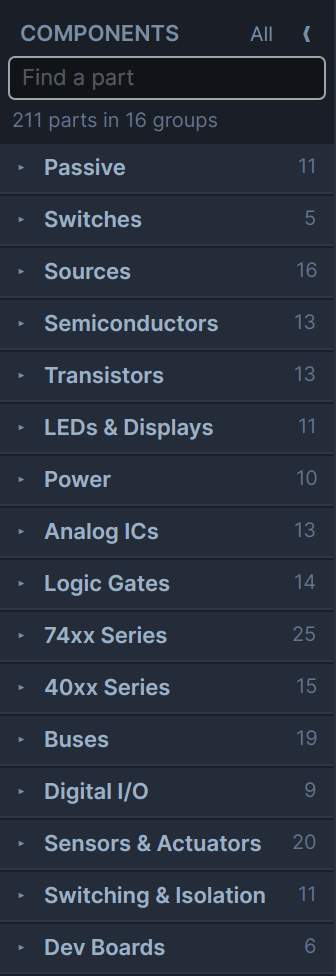
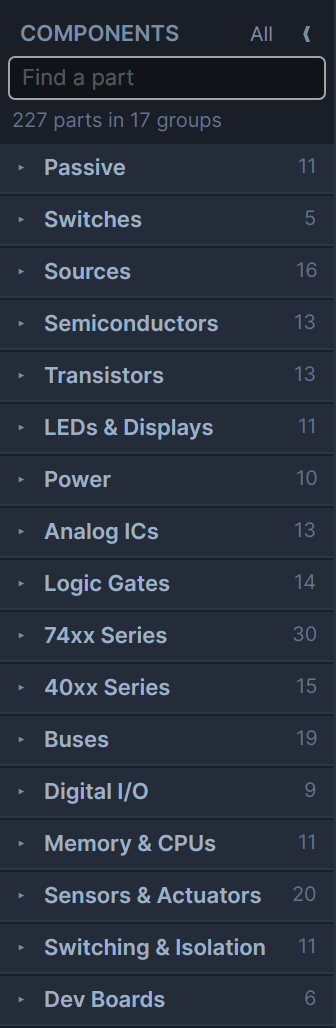
Document the 6502 computer, the memories and the bus glue for 0.42.0
The guide's new 6502 section (the model, the measured speed, the memory
map, both programs, single-stepping, limits), the LCD's reading, the
agent tools, counts for 227 parts in 17 groups and 100 examples, a
retaken palette picture and a picture of the 6502 bus decode (drawn by
Cirq.Shots), AGENTS.md notes on images, the core and its testing, and
the changelog.

diff --git a/tools/Cirq.Shots/Program.cs b/tools/Cirq.Shots/Program.cs
@@ -18,7 +18,7 @@ using Cirq.UI.Services;
 using Cirq.UI.ViewModels;
 using Cirq.UI.Views;
 
-// Draws the guide's palette picture (02-palette.png) and its screenshots of the AI Chat: the real editor, in a headless window rendered by Skia, with Claude's
+// Draws the guide's palette picture (02-palette.png), the 6502 bus decode (48-bus-decode-6502.png) and its screenshots of the AI Chat: the real editor, in a headless window rendered by Skia, with Claude's
 // side of the conversation replayed from a script. The tool calls are real (they run through the app's own MCP
 // server against the window's circuit) and so are the numbers Claude quotes at the end: they are read from the
 // results. Usage: dotnet run --project tools/Cirq.Shots -- <folder>
@@ -54,6 +54,28 @@ using (var picture = new RenderTargetBitmap(new PixelSize((int)(palette.Bounds.W
     picture.Render(palette);
     picture.Save(Path.Combine(folder, "02-palette.png"), PngBitmapEncoderOptions.Default);
     Console.WriteLine($"Wrote {Path.Combine(folder, "02-palette.png")}");
+}
+
+// ── The 6502 bus, decoded: the Ben Eater computer run for a few hundred cycles ──
+{
+    var computer = new MainWindowViewModel();
+    computer.Circuit.Clear();
+    computer.Scope.ClearProbes();
+    Examples.All.Single(e => e.Name == "Ben Eater 6502 Computer").Build(computer);
+    if (!computer.Simulation.Rebuild()) throw new InvalidOperationException(computer.Simulation.Status);
+    computer.Simulation.Simulator!.Run(60e-6);
+
+    var decode = new BusDecodeViewModel(computer.Circuit);
+    decode.Run();
+    var dialog = new BusDecodeWindow { DataContext = decode, Width = 880, Height = 600 };
+    dialog.Show();
+    for (var i = 0; i < 40; i++) Pump();
+    var frame = dialog.CaptureRenderedFrame() ?? throw new InvalidOperationException("Nothing was drawn.");
+    frame.Save(Path.Combine(folder, "48-bus-decode-6502.png"), PngBitmapEncoderOptions.Default);
+    Console.WriteLine($"Wrote {Path.Combine(folder, "48-bus-decode-6502.png")}");
+    dialog.Close();
+    computer.Dispose();
+    Pump();
 }
 
 var claude = new Replay();

diff --git a/src/Cirq.UI/ViewModels/Accordion.cs b/src/Cirq.UI/ViewModels/Accordion.cs
@@ -12,7 +12,7 @@ public interface IExpandableGroup : INotifyPropertyChanged
 /// <summary>
 /// Keeps at most one group in a list open at a time.
 /// <para>
-/// The palette holds sixteen groups and the example browser twelve. Opened independently they
+/// The palette holds seventeen groups and the example browser fifteen. Opened independently they
 /// stack up: four open groups is more than a sidebar's height, so finding the fifth means
 /// scrolling past the four you already finished with. Closing the last one as the next opens keeps
 /// every heading on screen, which is what makes a long list browsable rather than a thing to
@@ -21,7 +21,7 @@ public interface IExpandableGroup : INotifyPropertyChanged
 /// <para>
 /// Bulk changes — an expand-all button, or a search opening everything it matched — go through
 /// <see cref="SetAll"/> and are exempt. Those are not somebody opening a group, and collapsing
-/// fifteen of the sixteen a button just opened would be an odd way to answer the button.
+/// sixteen of the seventeen a button just opened would be an odd way to answer the button.
 /// </para>
 /// </summary>
 public sealed class Accordion

diff --git a/tests/Cirq.UI.Tests/PaletteSearchTests.cs b/tests/Cirq.UI.Tests/PaletteSearchTests.cs
@@ -5,7 +5,7 @@ namespace Cirq.UI.Tests;
 /// <summary>
 /// Finding a part among two hundred-odd of them.
 /// <para>
-/// The palette is sixteen collapsible groups, and browsing only works if you already know which
+/// The palette is seventeen collapsible groups, and browsing only works if you already know which
 /// one a part lives in — that a 4017 is under "40xx Series", an optocoupler under "Switching &amp;
 /// Isolation", a thermistor under "Sensors &amp; Actuators". Somebody who knows they want a 555
 /// should not have to guess where it was filed.
@@ -27,7 +27,7 @@ public class PaletteSearchTests
         Assert.False(vm.IsPaletteSearching);
     }
 
-    /// <summary>Everything closed to begin with, so all sixteen headings are on screen at once.</summary>
+    /// <summary>Everything closed to begin with, so all seventeen headings are on screen at once.</summary>
     [Fact]
     public void TheGroupsStartClosed()
     {

diff --git a/src/Cirq.UI/ViewModels/MainWindowViewModel.cs b/src/Cirq.UI/ViewModels/MainWindowViewModel.cs
@@ -99,7 +99,7 @@ public sealed partial class MainWindowViewModel : ObservableObject, IDisposable
     /// <summary>
     /// What is typed in the palette's search box. Empty shows everything.
     /// <para>
-    /// There are over two hundred parts in sixteen groups, and browsing only works if you already know which
+    /// There are over two hundred parts in seventeen groups, and browsing only works if you already know which
     /// group a part lives in — that a 4017 is under "40xx Series" and an optocoupler under
     /// "Switching &amp; Isolation". Somebody who knows they want a 555 should not have to guess.
     /// </para>

diff --git a/tests/Cirq.UI.Tests/PaletteLayoutTests.cs b/tests/Cirq.UI.Tests/PaletteLayoutTests.cs
@@ -13,7 +13,7 @@ public class PaletteLayoutTests
     {
         using var vm = new MainWindowViewModel();
 
-        // All sixteen headings on screen at once, rather than one group's worth of parts and the
+        // All seventeen headings on screen at once, rather than one group's worth of parts and the
         // rest below the fold.
         Assert.All(vm.Palette, c => Assert.False(c.IsExpanded));
     }

diff --git a/README.md b/README.md
@@ -35,7 +35,7 @@ CirqAvalonia.slnx
 ├── src/
 │   ├── Cirq.Core/         Domain model: components, terminals, nets, MNA stamping contract
 │   ├── Cirq.Engine/       LU solver, Newton-Raphson, transient loop, digital event scheduler
-│   ├── Cirq.Components/   Component library (RCL, transistors, diodes, thyristors, 741, 555, 74xx/4000, displays, boards)
+│   ├── Cirq.Components/   Component library (RCL, transistors, diodes, thyristors, 741, 555, 74xx/4000, memories, 6502, displays, boards)
 │   └── Cirq.UI/           Avalonia editor, schematic canvas, inspector, ScottPlot scope
 └── tests/
     ├── Cirq.Engine.Tests/      Solver accuracy against closed-form solutions
@@ -52,7 +52,7 @@ Core ← Engine ← Components ← UI, which keeps the whole engine headless-tes
 ```bash
 dotnet run --project src/Cirq.UI     # the editor
 dotnet run --project src/Cirq.Cli    # the same engine, no window
-dotnet test                          # 3983 tests
+dotnet test                          # 4122 tests
 ./scripts/build-guide.sh             # the user guide as a PDF
 ```
 
@@ -283,6 +283,14 @@ family's VOH/VOL, inputs are classified against VIH/VIL, and transitions are que
 point lands exactly on the next queued transition or waveform edge, then resolves zero-delay
 propagation as delta cycles before accepting the step. That is what lets a 555 timer's comparators,
 latch and discharge transistor all interact with the RC network around them in one solve.
+
+A circuit that is mostly logic stamps the same matrix at nearly every time point — an output going
+high or low moves only the right-hand side — so the factorisation is kept and reused until the
+stamped entries actually change (an output released or taken back), the solve walks only the
+factor's non-zero columns, and only the entries that were stamped are cleared. On a 6502 computer of
+151 unknowns that made the whole run about four times faster. When an output is rescheduled, the
+latest scheduling wins even if an earlier one falls due later, which is what lets a memory let go of
+a bus in 50 ns while its 150 ns access is still pending.
 
 ![The digit counter example: a 7490 decade counter driving a 7447 decoder into a seven-segment display, with the QA and QD outputs plotted on a stacked scope](docs/images/05-digital.png)
 
@@ -601,6 +609,10 @@ one passes against a button that would never have fired.
 | LM741 | Closed-loop gain, virtual ground, rail saturation, open-loop gain, slew-rate limiting, −3 dB corner at GBW/gain |
 | NE555 | Astable frequency vs `1.44/((R1+2R2)C)` across four R/C combinations, duty cycle, supply independence |
 | 74xx | Truth tables end-to-end through the analog domain, 7474/7476 edge triggering and async clear, 7490 BCD sequence, 74138 one-hot decode, 74151 addressing, shift register load and clock inhibit |
+| Bus glue | The 74139's eight rows per half with the other half undisturbed, the 74244's two groups driving and letting go independently, the 74374 and 74574 taking their inputs only on the rising edge, and the 74573 following while LE is high and holding after — each on its datasheet pinout, pin by pin |
+| Memories | Every EPROM, EEPROM and RAM on its JEDEC pinout pin by pin, data an access time after the address and released when deselected, a RAM written and read back through a tri-state buffer, a 28C256 write that is only loaded, polled through bit 7 inverted and bit 6 toggling, then in the cells a write cycle later; Intel HEX with segment and linear records, every malformed line refused with its number and reason, a binary at an offset, an image wrapped into the chip and one too big for it refused, a 32K image surviving the circuit file, and the original 2K part's file form unchanged |
+| 6502 core | Binary and decimal ADC/SBC with each part's flags, the dummy cycles of indexed and read-modify-write instructions differing between the NMOS part and the 65C02 exactly as the silicon's do, the NMOS JMP ($xxFF) bug and the 65C02's extra cycle fixing it, JSR/RTS/BRK bus sequences, the 65C02's additions and the NMOS undocumented opcodes, reset, IRQ latency after CLI, NMI once per edge, WAI — and a self-checking program, assembled from source in the test, passing on both parts in an array and on a schematic. Locally the core also passes every case of the published per-cycle suites (2,560,000 NMOS, 2,540,000 65C02) and Klaus Dormann's functional and extended-opcode tests; those are not in the repository |
+| 6502 computer | The self-check running from ROM through the analog solve with no undefined bus reads, the bus cycles a microsecond apart and disassembled, reset holding and restarting, a ROM too slow for a 6 MHz clock giving the wrong bytes, the 6522's ports, Timer 1 free-running a 100-cycle square wave on PB7 while its interrupt is counted, Timer 2 counting PB6 pulses, CA1 interrupting and CA2 handshaking, the 6551's greeting reaching a terminal and the terminal's text echoed back, the HD44780's busy flag and display memory read back, and the examples' ROMs holding exactly the programs the guide prints |
 | LM339 | Per-channel comparison, wired-AND when outputs are tied, release when unpowered |
 | Regulators | Line and load regulation, dropout, current limiting, LM317 divider programming |
 | BJT | Beta in forward active, saturation, cutoff, exponential Vbe, PNP mirroring, KCL at all three terminals |
@@ -891,13 +903,17 @@ attached to it, and any part that said it had not settled — all of which name 
 drawing to go and look, which "try a smaller time step" does not.
 
 The palette holds 227 components in 17 collapsible categories, with a **Find a part** box
-(`Ctrl+F`) over them. Among the newest: an incandescent lamp with the inrush of a cold filament,
-generic D, JK and T flip-flops, SR and D latches and a tri-state buffer, a TIP120 Darlington, LM35
-and TMP36 thermometers, a WS2812B NeoPixel strip decoded by its real bit timing, a 4×4 matrix
-keypad you press by double-clicking a key, Raspberry Pi Pico and ESP32 boards, and the 7483 / 74283
-adders and 74192 / 74193 up/down counters.
+(`Ctrl+F`) over them. Among the newest: **a 6502 you can build a computer with** — a W65C02S and an
+NMOS 6502 that run their instruction sets cycle by cycle on their pins, a 6522 VIA and a 6551 ACIA,
+the 2716/2732/2764/27C256 EPROMs, a 28C256 EEPROM with page writes and data polling, 6116 and
+62256 RAMs that load binary or Intel HEX images, and the 74139, 74244, 74374, 74573 and 74574 bus
+glue — with Ben Eater's breadboard computer as an example, saying hello on an HD44780. Before that:
+an incandescent lamp with the inrush of a cold filament, generic flip-flops and latches and a
+tri-state buffer, a TIP120 Darlington, LM35 and TMP36 thermometers, a WS2812B NeoPixel strip, a 4×4
+matrix keypad, Raspberry Pi Pico and ESP32 boards, and the 7483 / 74283 adders and 74192 / 74193
+up/down counters.
 
-![The component palette: a Find a part box at the top, "211 parts in 16 groups" under it, and the sixteen categories with their counts — passive 11, switches 5, sources 16, semiconductors 13, transistors 13, LEDs and displays 11, power 10, analog ICs 13, logic gates 14, 74xx series 25, 40xx series 15, buses 19, digital I/O 9, sensors and actuators 20, switching and isolation 11, dev boards 6 — every group closed, so all sixteen headings fit on screen at once](docs/images/02-palette.png)
+![The component palette: a Find a part box at the top, "227 parts in 17 groups" under it, and the seventeen categories with their counts — passive 11, switches 5, sources 16, semiconductors 13, transistors 13, LEDs and displays 11, power 10, analog ICs 13, logic gates 14, 74xx series 30, 40xx series 15, buses 19, digital I/O 9, memory and CPUs 11, sensors and actuators 20, switching and isolation 11, dev boards 6 — every group closed, so all seventeen headings fit on screen at once](docs/images/02-palette.png)
 
 Selecting a component fills the properties panel. It is built by reflection, so a new component
 type gets a complete editor without any UI code:

diff --git a/docs/USER_GUIDE.md b/docs/USER_GUIDE.md
@@ -81,7 +81,7 @@ write. Preferences are created on first use.
 
 ## The window
 
-![The CirqAvalonia editor running an RC low-pass: menu bar across the top, the component palette on the left with its Find a part box and sixteen closed groups, the schematic canvas in the centre with probe flags on the input and output, the properties panel on the right, the oscilloscope drawer across the bottom showing the square wave against the capacitor's charging curve, and the controls panel at the bottom right with the generator's frequency, amplitude, offset and duty](images/01-overview.png)
+![The CirqAvalonia editor running an RC low-pass: menu bar across the top, the component palette on the left with its Find a part box and seventeen closed groups, the schematic canvas in the centre with probe flags on the input and output, the properties panel on the right, the oscilloscope drawer across the bottom showing the square wave against the capacitor's charging curve, and the controls panel at the bottom right with the generator's frequency, amplitude, offset and duty](images/01-overview.png)
 
 Five regions, and they stay put:
 
@@ -167,7 +167,7 @@ Three of those are worth separating, because they are easy to confuse:
 
 ## Placing components
 
-![The component palette: a Find a part box at the top, "211 parts in 16 groups" under it, and the sixteen categories with their counts — passive 11, switches 5, sources 16, semiconductors 13, transistors 13, LEDs and displays 11, power 10, analog ICs 13, logic gates 14, 74xx series 25, 40xx series 15, buses 19, digital I/O 9, sensors and actuators 20, switching and isolation 11, dev boards 6 — every group closed, so all sixteen headings fit on screen at once](images/02-palette.png)
+![The component palette: a Find a part box at the top, "227 parts in 17 groups" under it, and the seventeen categories with their counts — passive 11, switches 5, sources 16, semiconductors 13, transistors 13, LEDs and displays 11, power 10, analog ICs 13, logic gates 14, 74xx series 30, 40xx series 15, buses 19, digital I/O 9, memory and CPUs 11, sensors and actuators 20, switching and isolation 11, dev boards 6 — every group closed, so all seventeen headings fit on screen at once](images/02-palette.png)
 
 Click a palette entry, then click the canvas. The part lands where you click, snapped to the grid.
 
@@ -2495,8 +2495,14 @@ performs therefore works here for the same reason it works on hardware.
 
 Two things catch people, and both behave here as they do on a real module. **Line two is an
 address, not a continuation**: running off the end of line one does not wrap onto it, you have to
-set the cursor to 0x40. And **reading is not modelled** — tie RW low. The busy flag is what RW is
-for, and virtually all driver code waits a fixed time instead of polling it.
+set the cursor to 0x40. And **it can be read**: with RW and E high it drives its data pins, RS low
+giving the **busy flag** on D7 and the address counter below it, RS high the character at the
+cursor. The flag is set for the datasheet's 37 µs after each byte and 1.52 ms after a clear or
+home, so code that polls it — the [6502 example](#a-6502-computer) does — waits as long as it would on
+a real module. Writes made while it is busy are still taken here, where a real controller would miss
+them; most driver code ties RW low and waits a fixed time, and reading never comes into it.
+
+The module's sixteen pins are along the top edge, pin 1 (VSS) at the left, as on the board's header.
 
 **File > Examples > Character LCD** drives one from an Arduino on the six pins everybody uses —
 `LiquidCrystal lcd(12, 11, 5, 4, 3, 2)`, so the wiring is the wiring on the breadboard. There is no
@@ -5534,10 +5540,11 @@ a breadboard. What is not modelled is anything inside a cycle that does not reac
 
 **How fast it runs.** Every one of those edges is a time point the solver lands on, and the whole
 board — about 150 unknowns — is solved at each, so this is not an emulator and does not run at one.
-Measured on the machine it was developed on (an 8-core ARM virtual machine), the Ben Eater computer
-runs at **about 5 to 10 ms of simulated time per second** in a release build, which at 1 MHz is
-5,000 to 10,000 instructions' worth of cycles a second; a debug build is two to three times slower.
-The hello world needs about 3.3 ms, so the text appears in under a second of solving. That is why
+Measured on the machine it was developed on (an 8-core ARM virtual machine, shared and busy), the Ben
+Eater computer runs at **about 5 to 20 ms of simulated time per second** in a release build — 5,000
+to 20,000 bus cycles a second at 1 MHz, the low end while the program is busy with the VIA and the
+LCD and the high end in a tight loop; a debug build is two to three times slower. The hello world
+needs about 3.3 ms, so the text appears in under a second of solving. That is why
 the examples run from the oscillator at **1 MHz**: a slower clock costs the same per cycle and only
 adds time steps between them, while a 1 MHz clock is the speed Ben Eater's machine famously also
 runs at. Logic-heavy circuits like this one got about four times faster in this release: the
@@ -5692,6 +5699,8 @@ cycles itself, the last 65,536 of them, so no probes are needed:
 $8000 LDX #$FF   R $8001 FF   $8002 TXS   R $8003 A9   $8003 LDA #$E0   R $8004 E0
 $8005 STA $6003   R $8006 03   R $8007 60   W $6003 E0   $8008 LDX #$00 ...
 ```
+
+![The bus decode window reading the 6502's bus: "Read as Cpu6502", a transcript of the first sixty cycles from the reset sequence's reads of $FFFC and $FFFD through LDX #$FF, TXS, LDA #$E0 and STA $6003 to the first JSR, and below it a row per cycle with its time, kind and text](images/48-bus-decode-6502.png)
 
 #### Single-stepping
 

diff --git a/CHANGELOG.md b/CHANGELOG.md
@@ -8,6 +8,75 @@ Add the new section **before** tagging: the workflow reads the changelog at the 
 
 ## [Unreleased]
 
+## [0.42.0] - 2026-11-04
+
+A computer you can build. A 65C02 and an NMOS 6502 that run their instruction sets cycle by cycle
+on their pins, a 6522 VIA and a 6551 ACIA, the EPROMs, EEPROM and RAMs they sit beside — loadable
+from binary and Intel HEX files — and the 74 series glue between them. Ben Eater's breadboard
+computer is an example, saying hello on its LCD. 227 components in 17 categories, 100 worked
+examples, 4122 tests.
+
+### Added
+
+**A 6502, cycle by cycle.** The W65C02S and the MOS 6502 are 40-pin parts on their datasheet
+pinouts, clocked from their PHI2 pin. Every instruction is the exact sequence of bus cycles the
+silicon performs — the dummy reads and writes included — and each cycle appears on the pins with
+the datasheet's timing: the address a moment after PHI2 falls, write data while it is high, and read
+data sampled as it falls, so address decoding and memory access times matter as they do on a
+breadboard. The 65C02 has the whole WDC instruction set (BRA, STZ, TSB/TRB, PHX/PLX, (zp), the bit
+instructions, WAI, STP) and correct decimal flags; the NMOS part has its decimal quirks, the
+JMP ($xxFF) bug and the undocumented opcodes. RESB, IRQB, NMIB, RDY, SOB and BE work as described.
+Both pass every case of the published per-cycle test suites, over five million of them.
+
+**The 6522 VIA and 6551 ACIA.** The VIA's two ports and direction registers, its handshake lines,
+both timers — including a square wave on PB7 with no software running — and its interrupt flags.
+The ACIA at 50 to 19,200 baud from a 1.8432 MHz crystal, talking to the Serial Terminal, whose
+symbol now shows the last two lines it received.
+
+**Memories by their part numbers.** The 2716, 2732, 2764 and 27C256 EPROMs, the 28C256 EEPROM —
+which writes as the real one does, a page load, a write cycle and data polling — and the 6116 and
+62256 static RAMs, each on its JEDEC pinout with its pin names printed on the symbol.
+**Edit > Load Memory Image...** reads a raw binary (at an offset you give) or an Intel HEX file into
+one, checksums checked and a bad line named; the image is saved inside the circuit.
+
+**Bus glue.** The 74139 dual 2-to-4 decoder, the 74244 octal buffer, the 74374 and 74574 octal
+D flip-flops and the 74573 transparent latch, all with tri-state outputs.
+
+**Two computers in File > Examples > Computers.** *Ben Eater 6502 Computer* — a 65C02, a 28C256, a
+62256 and a 6522 decoded by one 7400, as in his video series — prints "Hello, world!" on an HD44780,
+polling its busy flag before every byte. *6502 Serial Terminal* greets a terminal over a 6551 and
+echoes what it types. The guide prints both programs, with the memory map and how to single-step.
+
+**A 6502 bus decoder.** *Simulate > Decode Bus...* reads a processor's recorded bus: every cycle's
+address, data and direction, with the instruction disassembled on each opcode fetch.
+
+**Agent tools.** `load_memory` and `read_memory` put an image into a memory part and read its bytes
+back; `cpu_state` gives a processor's registers, flags and recent bus cycles; `disassemble` lists
+the code in a ROM. A transient run now leaves processors, memories and LCDs where it ended, and a
+new recipe tours the 6502 computer. 35 tools and seven recipes.
+
+### Changed
+
+**Logic-heavy circuits run about four times faster.** The solver keeps its factorisation while only
+logic levels change, solves over the factor's non-zero entries only, and clears only what was
+stamped.
+
+The HD44780 can be read: the busy flag, the address counter and the display memory, with the
+datasheet's execution times. Its pins are now along the top of the module, as the header is.
+
+A net label can be made **Compact** — the flag alone, without its designator and repeated name —
+for labelling a bus pin by pin.
+
+### Fixed
+
+**The Clock and the Oscillator could lose an edge** that landed exactly on a time point, because
+the phase was a plain floor and (n + ½) periods divided by the period is not always n + ½ in
+floating point. At a megahertz that was a missing clock cycle every few microseconds.
+
+**A logic output rescheduled to change sooner could still make the earlier, later change.** A part
+that asked for one level 150 ns away and then for another 50 ns away ended up at the first; the
+latest request now wins whenever either falls due.
+
 ## [0.41.1] - 2026-11-04
 
 A documentation release: nothing in the simulator changed.
@@ -2414,7 +2483,8 @@ First public build of CirqAvalonia — an electronic circuit analyzer and mixed-
 
 **501 tests** measure the solver against closed-form answers rather than recorded output.
 
-[Unreleased]: https://github.com/Harlock123/CIRQAvalonia/compare/v0.41.1...HEAD
+[Unreleased]: https://github.com/Harlock123/CIRQAvalonia/compare/v0.42.0...HEAD
+[0.42.0]: https://github.com/Harlock123/CIRQAvalonia/compare/v0.41.1...v0.42.0
 [0.41.1]: https://github.com/Harlock123/CIRQAvalonia/compare/v0.41.0...v0.41.1
 [0.41.0]: https://github.com/Harlock123/CIRQAvalonia/compare/v0.40.0...v0.41.0
 [0.40.0]: https://github.com/Harlock123/CIRQAvalonia/compare/v0.39.0...v0.40.0

diff --git a/AGENTS.md b/AGENTS.md
@@ -37,7 +37,12 @@ dotnet run --project src/Cirq.UI -- --mcp      # the MCP server on stdio, headle
   - The other files there are the analyses (AC, DC sweep, noise, Monte Carlo, pole-zero, stability and more).
   - `Numerics/` (LU solvers, FFT), `Digital/DigitalScheduler.cs` and `Decoding/` (I2C, SPI, UART, CAN, 1-Wire).
 - `src/Cirq.Components/`: the part library, one folder per family (`Passive`, `Nonlinear`, `Digital`, `Ics`,
-  `Buses`, `Boards` and more).
+  `Buses`, `Boards`, `Processors` and more).
+  - `Digital/ParallelMemory.cs` is every byte-wide ROM and RAM, built from a pin table (`MemoryChips.cs`);
+    `MemoryImage.cs` reads binary and Intel HEX images.
+  - `Processors/` is the 6502: `Mos6502Core` (the instruction set as bus cycles, no circuit),
+    `Opcodes6502` (the opcode table the core and the disassembler share), `Processor6502` (the 40-pin
+    parts, `Cpu65C02` and `Cpu6502`, clocked from their PHI2 pin), the 6522 and 6551, and the bus decoder.
   - `Serialization/` reads and writes `.cirq` files (indented JSON).
   - `Spice/` imports and exports SPICE models and netlists.
 - `src/Cirq.UI/`: the Avalonia editor.
@@ -60,8 +65,8 @@ dotnet run --project src/Cirq.UI -- --mcp      # the MCP server on stdio, headle
 - `src/Cirq.Cli/`: the `cirq` tool. `CommandLine.Run` takes its writers as arguments, so tests drive it without
   starting a process.
 - `tools/Cirq.Docs/`: turns the Markdown guide into print-ready HTML (Markdig). It is never shipped.
-- `tools/Cirq.Shots/`: draws the guide's palette picture (`docs/images/02-palette.png`, every group closed) and its AI
-  Chat screenshots (`docs/images/35-*.png`, `36-*.png`): the real editor
+- `tools/Cirq.Shots/`: draws the guide's palette picture (`docs/images/02-palette.png`, every group closed), the 6502
+  bus decode (`48-bus-decode-6502.png`) and its AI Chat screenshots (`docs/images/35-*.png`, `36-*.png`): the real editor
   in a headless window rendered by Skia, with Claude's side replayed from a script and the tool calls run for real.
   `dotnet run --project tools/Cirq.Shots -- docs/images`. Never shipped.
 - `tests/`: xUnit v2, one project per source project. `Cirq.UI.Tests/Support/HeadlessApp.cs` runs the real `App`
@@ -101,6 +106,21 @@ dotnet run --project src/Cirq.UI -- --mcp      # the MCP server on stdio, headle
   simulator, then write a transient's samples back into the probes. A new tool needs a `[Description]` on it and
   every parameter (snake_case names), and a place in `EndToEndTests.ToolNames`. Recipes are run call by call by
   `EndToEndTests`, so a recipe that stops working fails the build.
+- **Memory images travel in the file.** A memory part's `Contents` is its preset in hex (`@addr:` and
+  bytes, zero runs skipped), and `ParallelMemory.Load(MemoryImage)` writes a loaded binary or HEX file
+  into it, so a circuit opens complete. A reset puts the preset back; `Contents` reads what is there now.
+- **The 6502 core is a sequence of bus cycles.** Each instruction in `Mos6502Core` is an iterator that
+  yields once per cycle after setting `Address`, `IsRead` and `DataOut`; the caller does the cycle and
+  calls `Complete(data)`. Dummy reads and writes are real cycles and must stay exact. Test the core with
+  `Cpu6502CoreTests` (results, per-mode cycles, interrupts, a self-checking program built by the test-side
+  `Assembler6502`), and locally against Tom Harte's SingleStepTests (`65x02`: `6502/v1`, `wdc65c02/v1`)
+  and Klaus Dormann's functional tests, downloaded outside the repository — neither is committed, and
+  no test may need the network. Example ROMs are byte arrays in `Examples.cs`; a UI test assembles the
+  source the guide prints and checks the bytes match, so change both together.
+- **Runs hand back their end state.** A part implementing `IRunState` (processors, memories, the LCD) has
+  the state its copy ended in written back after an agent's `run_transient`.
+- **Logic speed.** The simulator reuses an LU factorisation while the stamped matrix is unchanged, so a
+  part must stamp through `MnaSystem.Add` (never write `Matrix` directly) or the reuse check misses it.
 - **No real Anthropic API in tests.** The chat tests answer from `FakeClaude` (an `HttpMessageHandler` replaying
   scripted streams) with a made-up key; window tests point the settings and the key file at a temp folder. The key
   is only ever shown masked.
